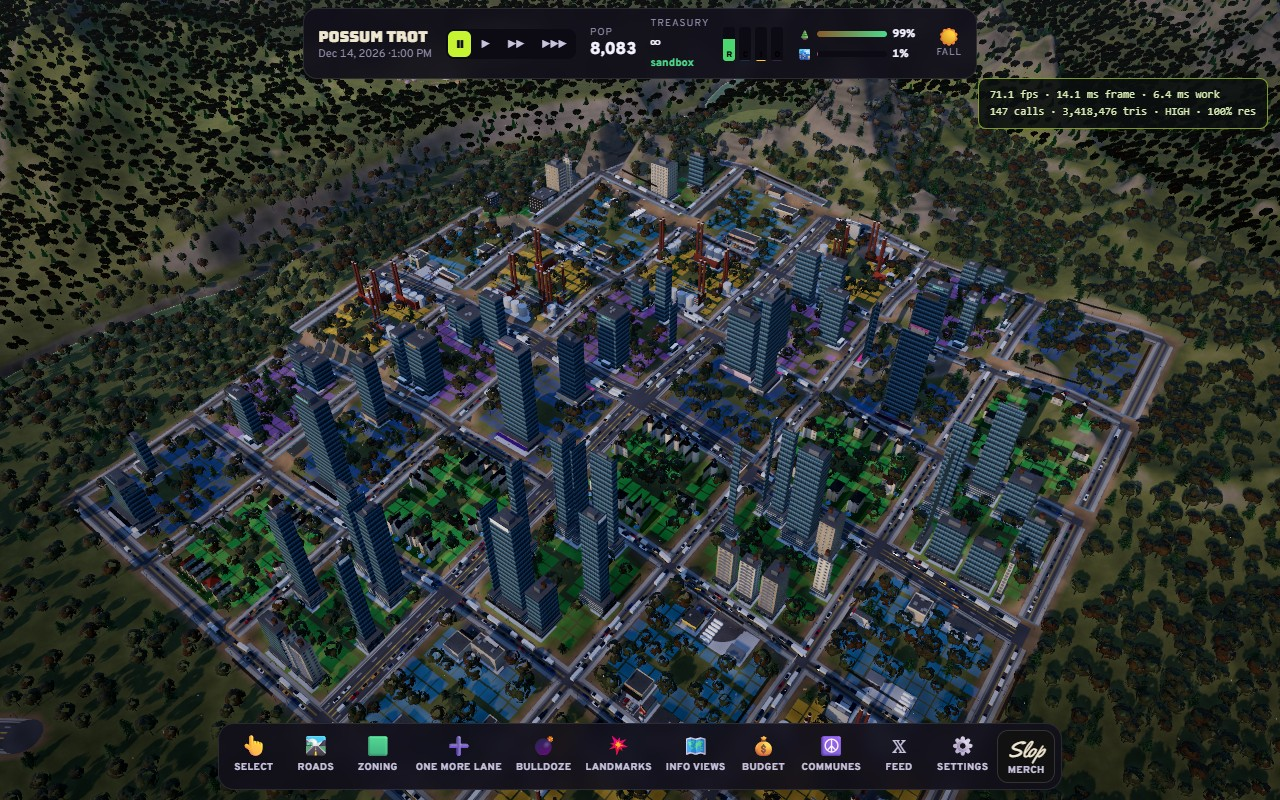
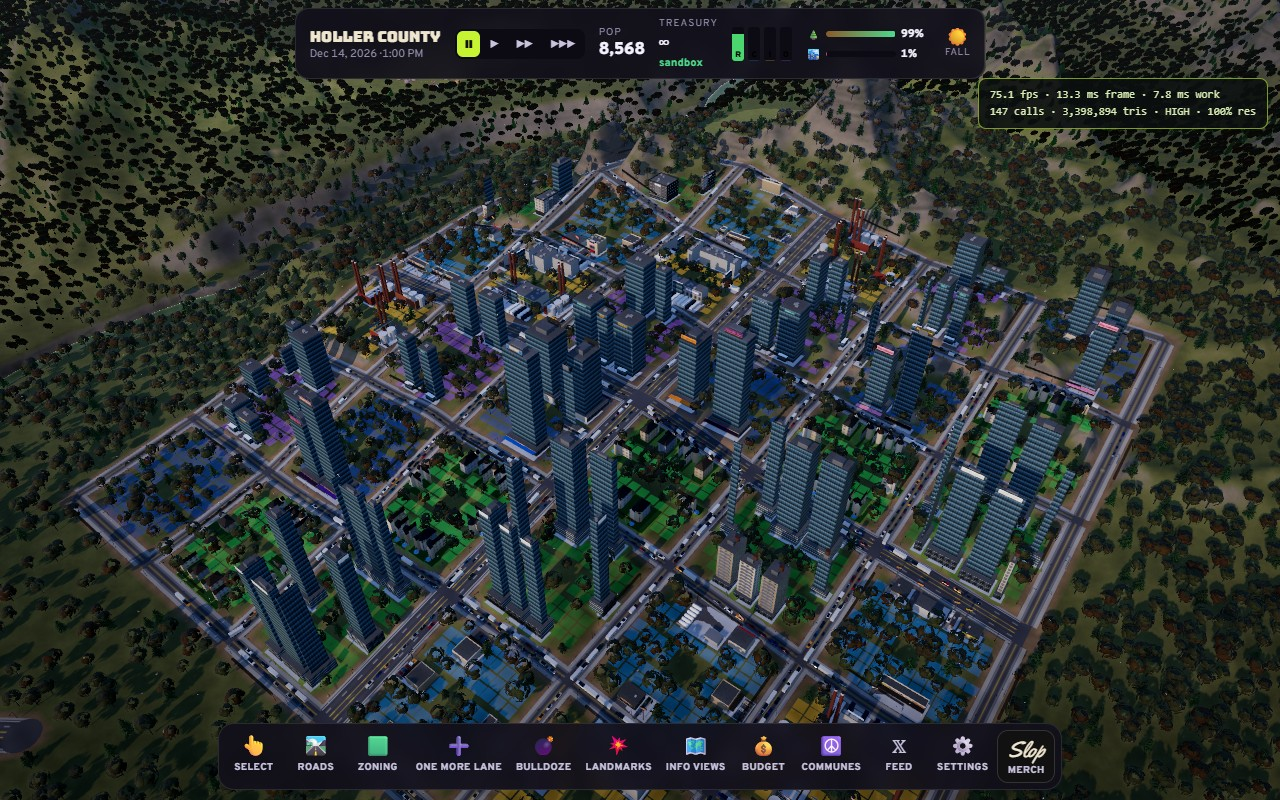
Verify latest base and conform hill junction edges

diff --git a/src/roads/roadMesh.ts b/src/roads/roadMesh.ts
@@ -517,6 +517,7 @@ export class RoadRenderer {
     const trims = segs.map((s) => (s.a === n.id ? s.trimA : s.trimB));
     if (trims.every((t) => t < 0.01)) return b;
     const pts: V2[] = [{ x: n.x, z: n.z }];
+    const edgeHeights: { p: V2; y: number }[] = [];
     for (const s of segs) {
       const atA = s.a === n.id;
       const t = ROAD_TYPES[s.type];
@@ -525,7 +526,10 @@ export class RoadRenderer {
       const F = RoadRenderer.frame(s, clamp(d, 0, s.length));
       const r = { x: -F.t.z, z: F.t.x };
       const hw = carriageHalf(t);
-      pts.push({ x: F.p.x + r.x * hw, z: F.p.z + r.z * hw }, { x: F.p.x - r.x * hw, z: F.p.z - r.z * hw });
+      const left = { x: F.p.x + r.x * hw, z: F.p.z + r.z * hw };
+      const right = { x: F.p.x - r.x * hw, z: F.p.z - r.z * hw };
+      pts.push(left, right);
+      edgeHeights.push({ p: left, y: F.y + 0.08 }, { p: right, y: F.y + 0.08 });
     }
     let hull = convexHull(pts);
     // screen-CCW (x right, -z up) needs negative xz signed area
@@ -536,7 +540,16 @@ export class RoadRenderer {
     }
     if (area > 0) hull = hull.reverse();
     const c = b.v(n.x, y, n.z, 0, 1, 0, n.x / 8, n.z / 8);
-    const ids = hull.map((p) => b.v(p.x, y, p.z, 0, 1, 0, p.x / 8, p.z / 8));
+    // Approach profiles can differ noticeably on hills. Keep the center pinned
+    // to the averaged node height, but meet each road at its sampled edge height.
+    const ids = hull.map((p) => {
+      let best = edgeHeights[0], d2 = Infinity;
+      for (const edge of edgeHeights) {
+        const dx = p.x - edge.p.x, dz = p.z - edge.p.z, dd = dx * dx + dz * dz;
+        if (dd < d2) { best = edge; d2 = dd; }
+      }
+      return b.v(p.x, best?.y ?? y, p.z, 0, 1, 0, p.x / 8, p.z / 8);
+    });
     for (let k = 0; k < ids.length; k++) b.tri(c, ids[k], ids[(k + 1) % ids.length]);
     return b;
   }

diff --git a/docs/aa-world/README.md b/docs/aa-world/README.md
@@ -11,7 +11,7 @@ The commune images compare the base commune rebuild (`f5a8dbe`) with this branch
 | Rain, 40 m | ![Before, rain at 40 m](qa/commune-before-rain-40.jpg) | ![After, rain at 40 m](qa/commune-after-rain-40.jpg) |
 | Snow, 40 m | ![Before, snow at 40 m](qa/commune-before-snow-40.jpg) | ![After, snow at 40 m](qa/commune-after-snow-40.jpg) |
 
-Additional final views: [NorCal day](qa/norcal-after-day-40.jpg), [Florida night](qa/florida-after-night-40.jpg), [signalized street by day](qa/street-signal-day.jpg), [signalized street at night](qa/street-signal-night.jpg), and [commune remains after departure](qa/commune-burnt-remains.jpg).
+Additional final views: [NorCal day](qa/norcal-after-day-40.jpg), [Florida night](qa/florida-after-night-40.jpg), [signalized street by day](qa/street-signal-day.jpg), [signalized street at night](qa/street-signal-night.jpg), [hill junction](qa/street-hill-junction.jpg), and [commune remains after departure](qa/commune-burnt-remains.jpg).
 
 ## Large town performance
 
@@ -19,8 +19,8 @@ The repeatable harness in `scripts/perfTown.mjs` builds a dry 7 × 7 road grid, 
 
 | Preset and viewport | Town | FPS | Mean frame | Work | Draw calls | Triangles | Resolution |
 | --- | ---: | ---: | ---: | ---: | ---: | ---: | ---: |
-| High, 1280 × 800 | 199 buildings, 8,083 people | 71.1 | 14.1 ms | 6.4 ms | 147 | 3,418,476 | 100% |
-| Low, 390 × 844 | 184 buildings, 7,122 people | 168.7 | 5.9 ms | 3.8 ms | 112 | 1,165,694 | 100% |
+| High, 1280 × 800 | 221 buildings, 8,568 people | 75.1 | 13.3 ms | 7.8 ms | 147 | 3,398,894 | 100% |
+| Low, 390 × 844 | 218 buildings, 7,874 people | 131.3 | 7.6 ms | 5.9 ms | 112 | 1,223,972 | 100% |
 
 ![High preset F3 overlay](qa/town-high-overlay.jpg)
 ![Low preset F3 overlay on a phone-size viewport](qa/town-low-overlay.jpg)
@@ -30,10 +30,10 @@ Unobstructed game captures: [High town](qa/town-high.jpg) and [Low town](qa/town
 The measured scene costs addressed in this pass were:
 
 1. A distant water tile caused a second scene render in a dry town view. Visibility and distance culling eliminated **186 draw calls and about 2.35 million triangles** in that comparison, while retaining planar reflections around nearby water. The final dry-town profile confirms that toggling reflection off saves no additional calls.
-2. Ground-detail placement previously took 3.4 ms median and up to 9.3 ms in a dense town. The incremental refill now measured **0.6 ms median and 0.9 ms maximum** per frame in the final High town run; Low stayed at or below 0.6 ms.
+2. Ground-detail placement previously took 3.4 ms median and up to 9.3 ms in a dense town. The incremental refill now measured **0.6 ms median**, with a **0.9 ms maximum** across the final High and Low town runs.
 3. Distant commune fires were adding point lights to the scene. Their light is now active only near the camera; distant flame and bulb geometry remains visible.
-4. The building geometry kit now shares quad corners. The High town uses **188,102 stored building vertices** (199 buildings) and the Low town uses **163,508** (184 buildings), with the same rendered triangles and visual detail. A deterministic 10,800-building generation matrix measured a 32.8% drop in stored vertices.
+4. The building geometry kit now shares quad corners. The final High town uses **202,284 stored building vertices** (221 buildings) and the Low town uses **192,700** (218 buildings), with the same rendered triangles and visual detail. A deterministic 10,800-building generation matrix measured a 32.8% drop in stored vertices.
 
-An interleaved GPU timer profile measured about 7.55 ms for a rendered High frame at 60% scale. The largest remaining GPU costs in this view were trees (2.57 ms), the complete post pass (2.49 ms; AO alone was 0.08 ms), and shadows (1.52 ms). A contended concurrent-browser run briefly measured 47.9 FPS and scaled to 60%; exclusive hardware runs measured 72.4, 72.3, 72.2, and 71.1 FPS at 100% scale. The last run fixes the weather to clear and includes the compact street junction geometry; it is the representative result above.
+An interleaved GPU timer profile measured about 7.55 ms for a rendered High frame at 60% scale. The largest remaining GPU costs in that view were trees (2.57 ms), the complete post pass (2.49 ms; AO alone was 0.08 ms), and shadows (1.52 ms). A contended concurrent-browser run briefly measured 47.9 FPS and scaled to 60%; exclusive hardware runs consistently exceeded 70 FPS at 100% scale. The final run above includes the latest hill-road grading and gameplay hooks from the base branch.
 
-`scripts/touchtest.mjs` passed at 390 × 844 on Low after the atmosphere merge: the drag created four road segments, Done ended drawing, and Undo restored the original segment count. The departure test confirmed `gone` state, attached burnt remains, scorched terrain paint, and no browser errors. The final 36-view commune matrix across all three maps, plus the latest street and departure captures, had no browser or shader errors. Cold High boots in the atmosphere lab on Appalachia and Florida had no WebGL, shader, or program-link errors after correcting reflection render order. TypeScript and the single-file build passed before the branch push.
+`scripts/touchtest.mjs` passed at 390 × 844 on Low after the latest base merge: the drag created four road segments, Done ended drawing, and Undo restored the original segment count. The departure test confirmed `gone` state, attached burnt remains, scorched terrain paint, and no browser errors. The final 36-view commune matrix across all three maps, plus the latest street and departure captures, had no browser or shader errors. A steep hill junction exposed an approach-height seam, now fixed by matching the junction hull edge to sampled road heights. A fresh-storage desktop boot auto-selected Ultra without reloading or errors; the F3 overlay kept updating. Cold High boots in the atmosphere lab on Appalachia and Florida had no WebGL, shader, or program-link errors after correcting reflection render order. TypeScript and the single-file build passed before the branch push.
